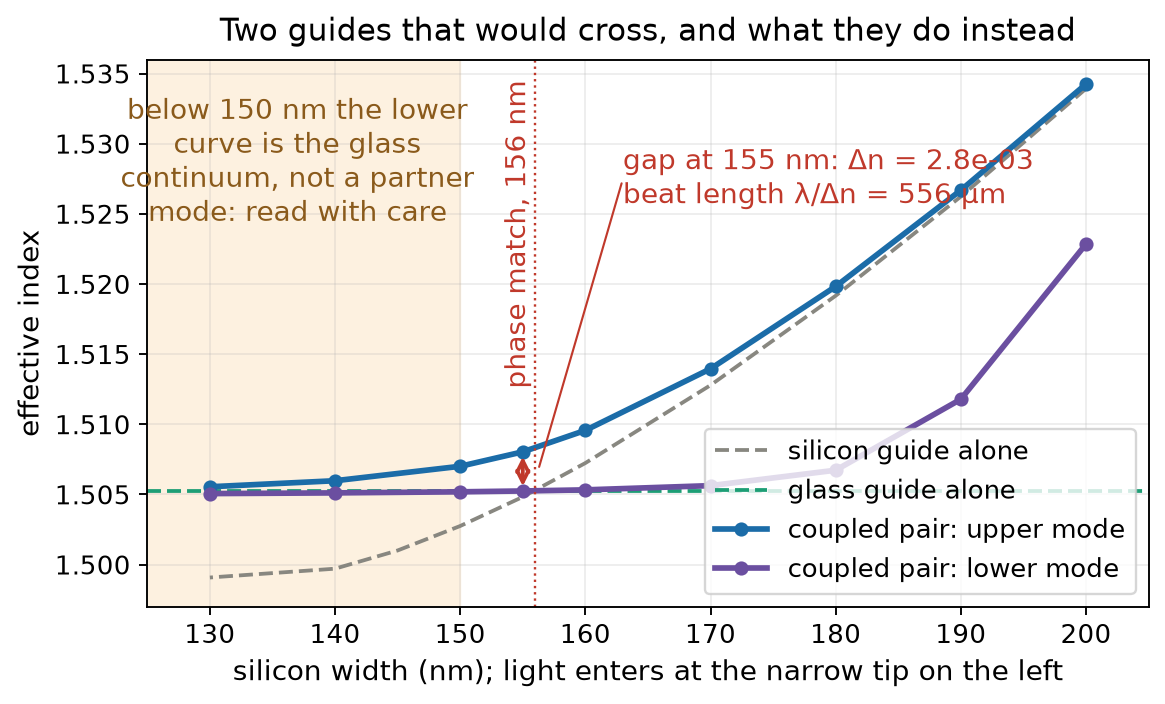
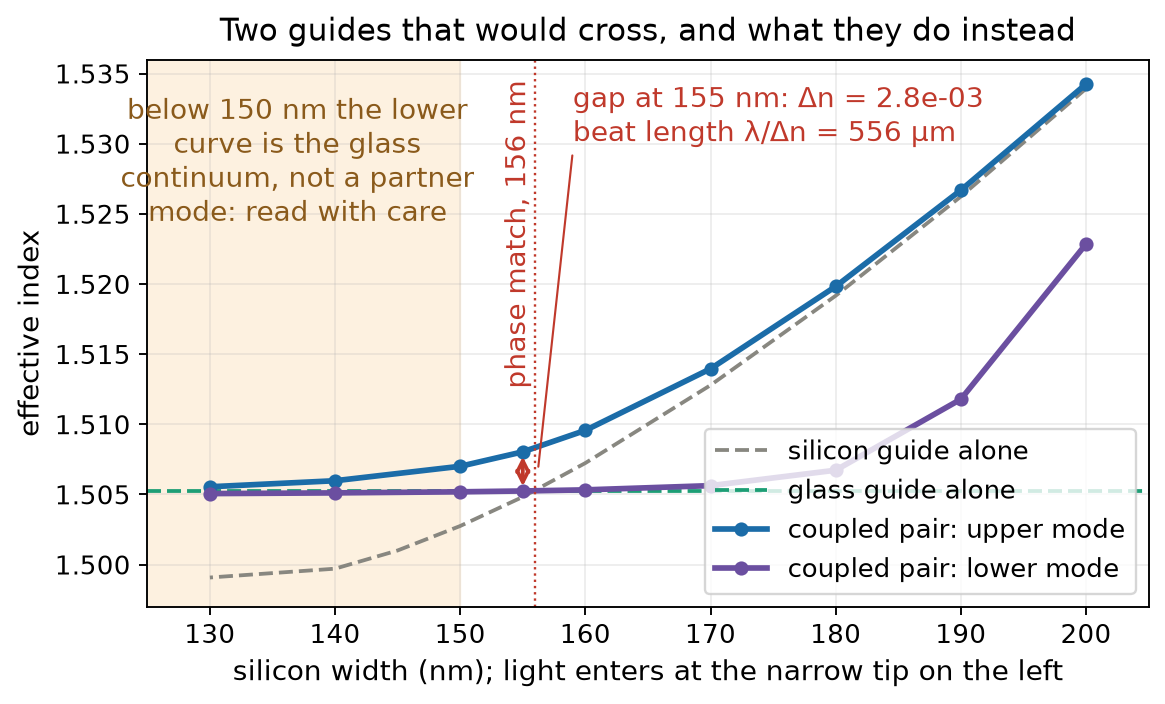
Anticrossing figure: gap label above the curves

Changed region(s): [[0.4944, 0.125, 0.8961, 0.3125], [0.4635, 0.4688, 0.4944, 0.6562]]

diff --git a/chain/figures.html b/chain/figures.html
@@ -78,7 +78,7 @@ anchor: <code>figures.html#name</code> jumps straight to it.</div>
 <h2>Stage 3: glass to silicon</h2>
 <figure id="handoff"><span class="fid">handoff</span><img src="img/handoff.svg?v=7ee56839" alt=""><figcaption>The scene: the ion-exchanged guide in the glass, the adhesive bondline, and the silicon taper of the face-down die. The mode starts in the glass and climbs into the silicon as the taper widens.</figcaption></figure>
 <figure id="taper-plan"><span class="fid">taper-plan</span><img src="img/taper-plan.svg?v=ab18c745" alt=""><figcaption>The taper from above: 120 nm at the tip, 500 nm at the far end, 2 mm long, with the hand-off window shaded. The length is compressed about 700 times; at true scale it is 4000 times longer than it is wide.</figcaption></figure>
-<figure id="anticrossing"><span class="fid">anticrossing</span><img src="img/anticrossing.png?v=afc0ff4e" alt=""><figcaption>The two guides alone would cross at 156 nm. Solved together they refuse to, and the light rides the upper curve from a glass mode into a silicon mode. The gap sets the beat length, and the beat length sets how slowly the taper must change.</figcaption></figure>
+<figure id="anticrossing"><span class="fid">anticrossing</span><img src="img/anticrossing.png?v=5bd7a45f" alt=""><figcaption>The two guides alone would cross at 156 nm. Solved together they refuse to, and the light rides the upper curve from a glass mode into a silicon mode. The gap sets the beat length, and the beat length sets how slowly the taper must change.</figcaption></figure>
 
 <figure id="beat-length"><span class="fid">beat-length</span><img src="img/beat-length.png?v=d8267e42" alt=""><figcaption>What a beat length is. Two phase-matched guides held at fixed geometry: light launched in the glass is entirely in the silicon after half a beat length and back in the glass after one. The beat length runs along the light; the adhesive thickness runs across it and is one of the things that sets the beat length, not something compared with it.</figcaption></figure>
 

diff --git a/chain/anticrossing.py b/chain/anticrossing.py
@@ -41,8 +41,8 @@ ax.text(137, 1.5245, "below 150 nm the lower\ncurve is the glass\ncontinuum, not
 i = np.argmin(abs(w_c - 155))
 ax.annotate("", xy=(155, upper[i]), xytext=(155, lower[i]),
             arrowprops=dict(arrowstyle="<->", color="#c0392b", lw=1.6))
-ax.text(163, 1.5275, f"gap at 155 nm: Δn = {coupled[i,2]:.1e}\nbeat length λ/Δn = {LAM/coupled[i,2]:.0f} µm", color="#c0392b", va="center")
-ax.annotate("", xy=(156.2, (upper[i]+lower[i])/2), xytext=(163, 1.5275),
+ax.text(159, 1.5295, f"gap at 155 nm: Δn = {coupled[i,2]:.1e}\nbeat length λ/Δn = {LAM/coupled[i,2]:.0f} µm", color="#c0392b", va="bottom")
+ax.annotate("", xy=(156.2, (upper[i]+lower[i])/2), xytext=(159, 1.5295),
             arrowprops=dict(arrowstyle="-", color="#c0392b", lw=0.9))
 ax.axvline(156, color="#c0392b", lw=1, ls=":")
 ax.text(154.6, 1.5345, "phase match, 156 nm", color="#c0392b", rotation=90, va="top", ha="center")
